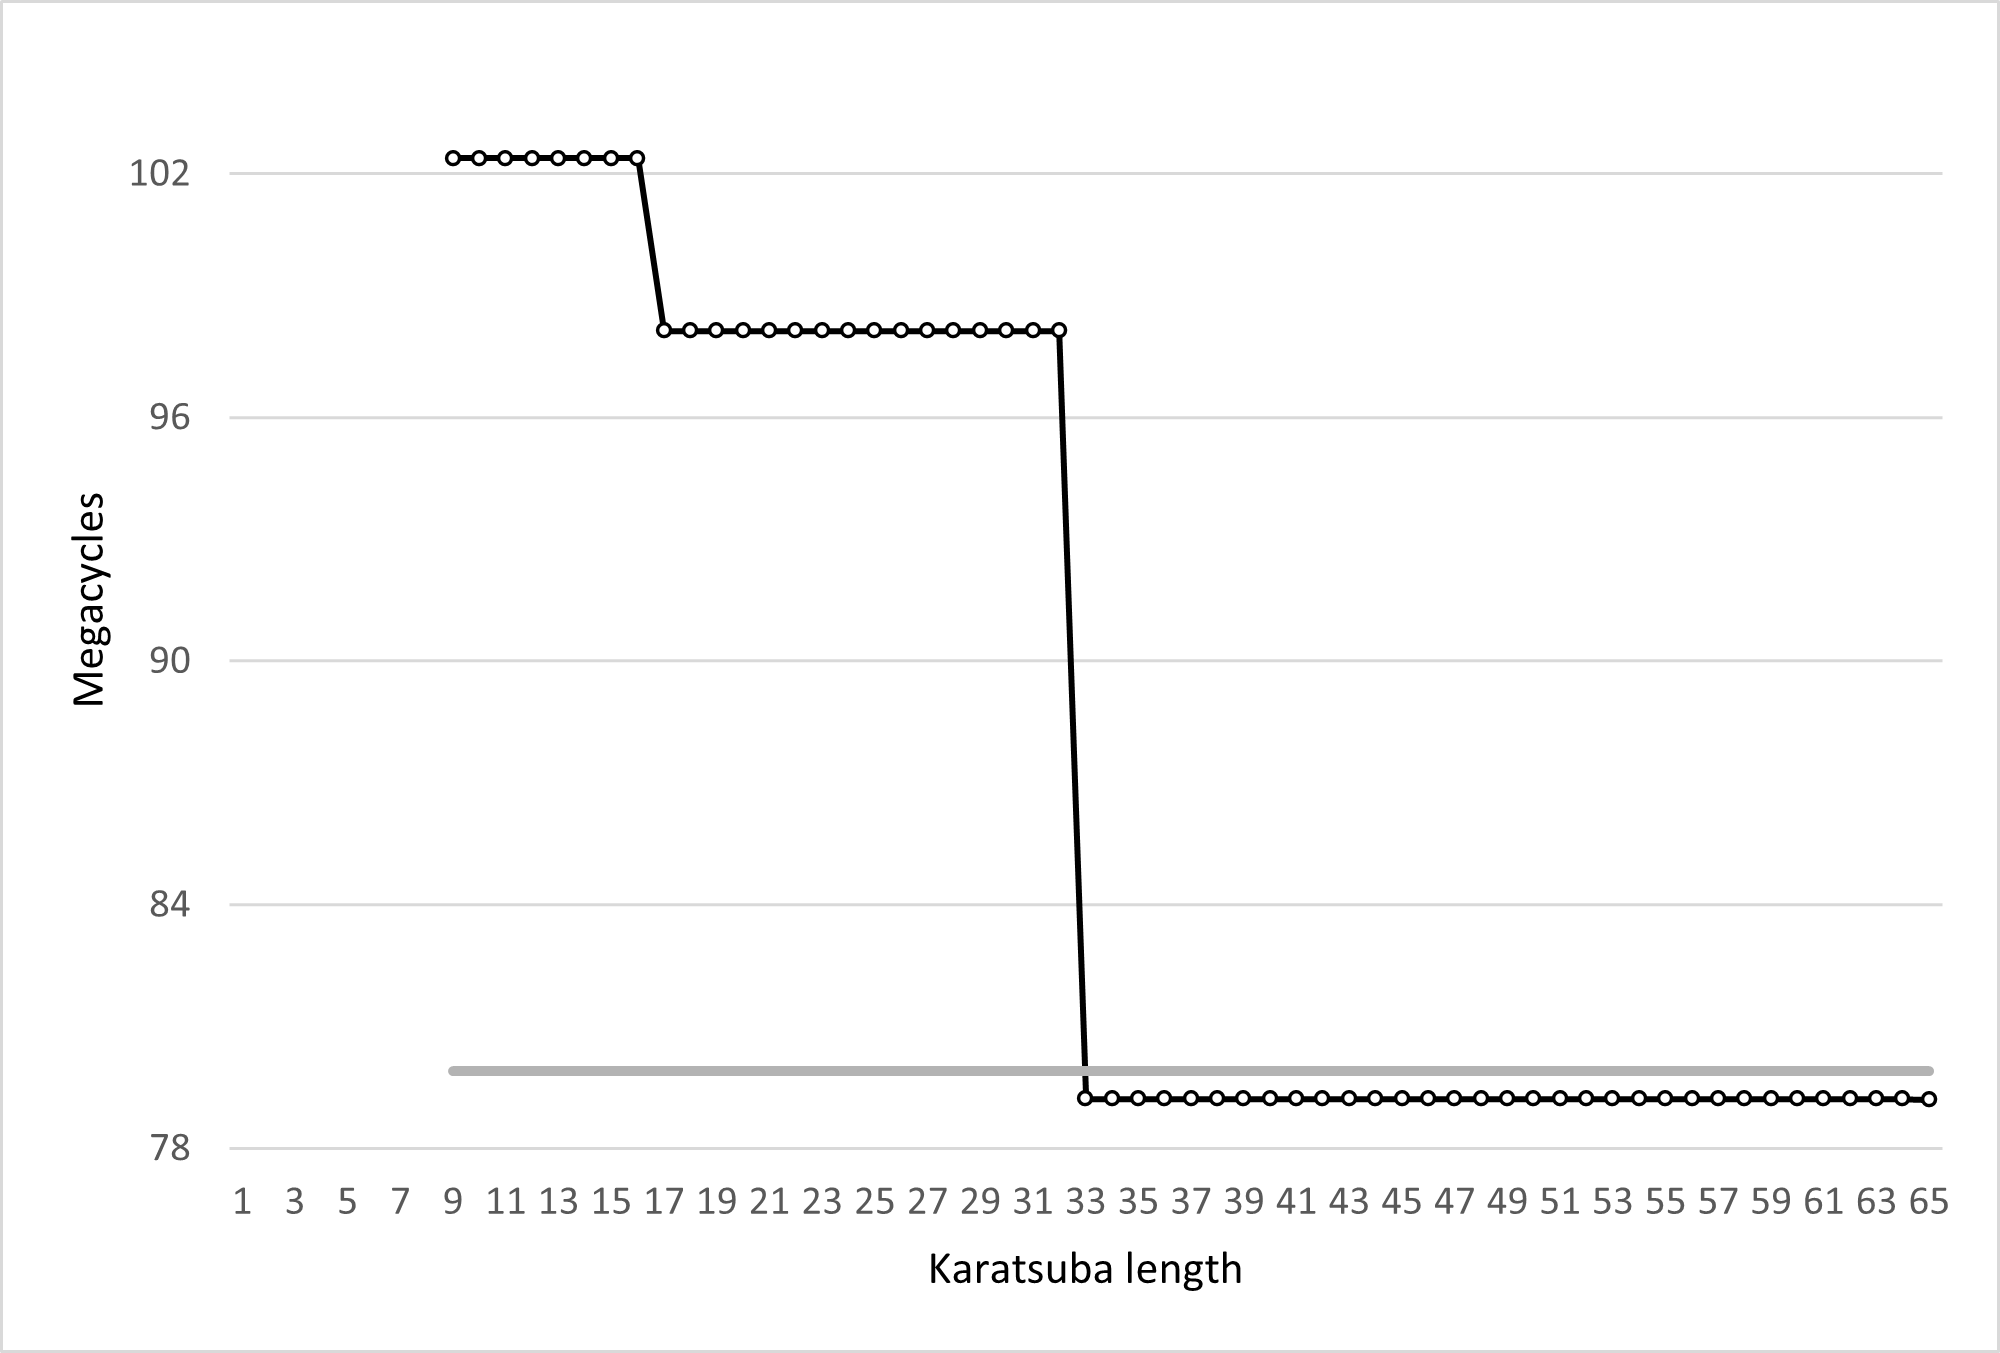
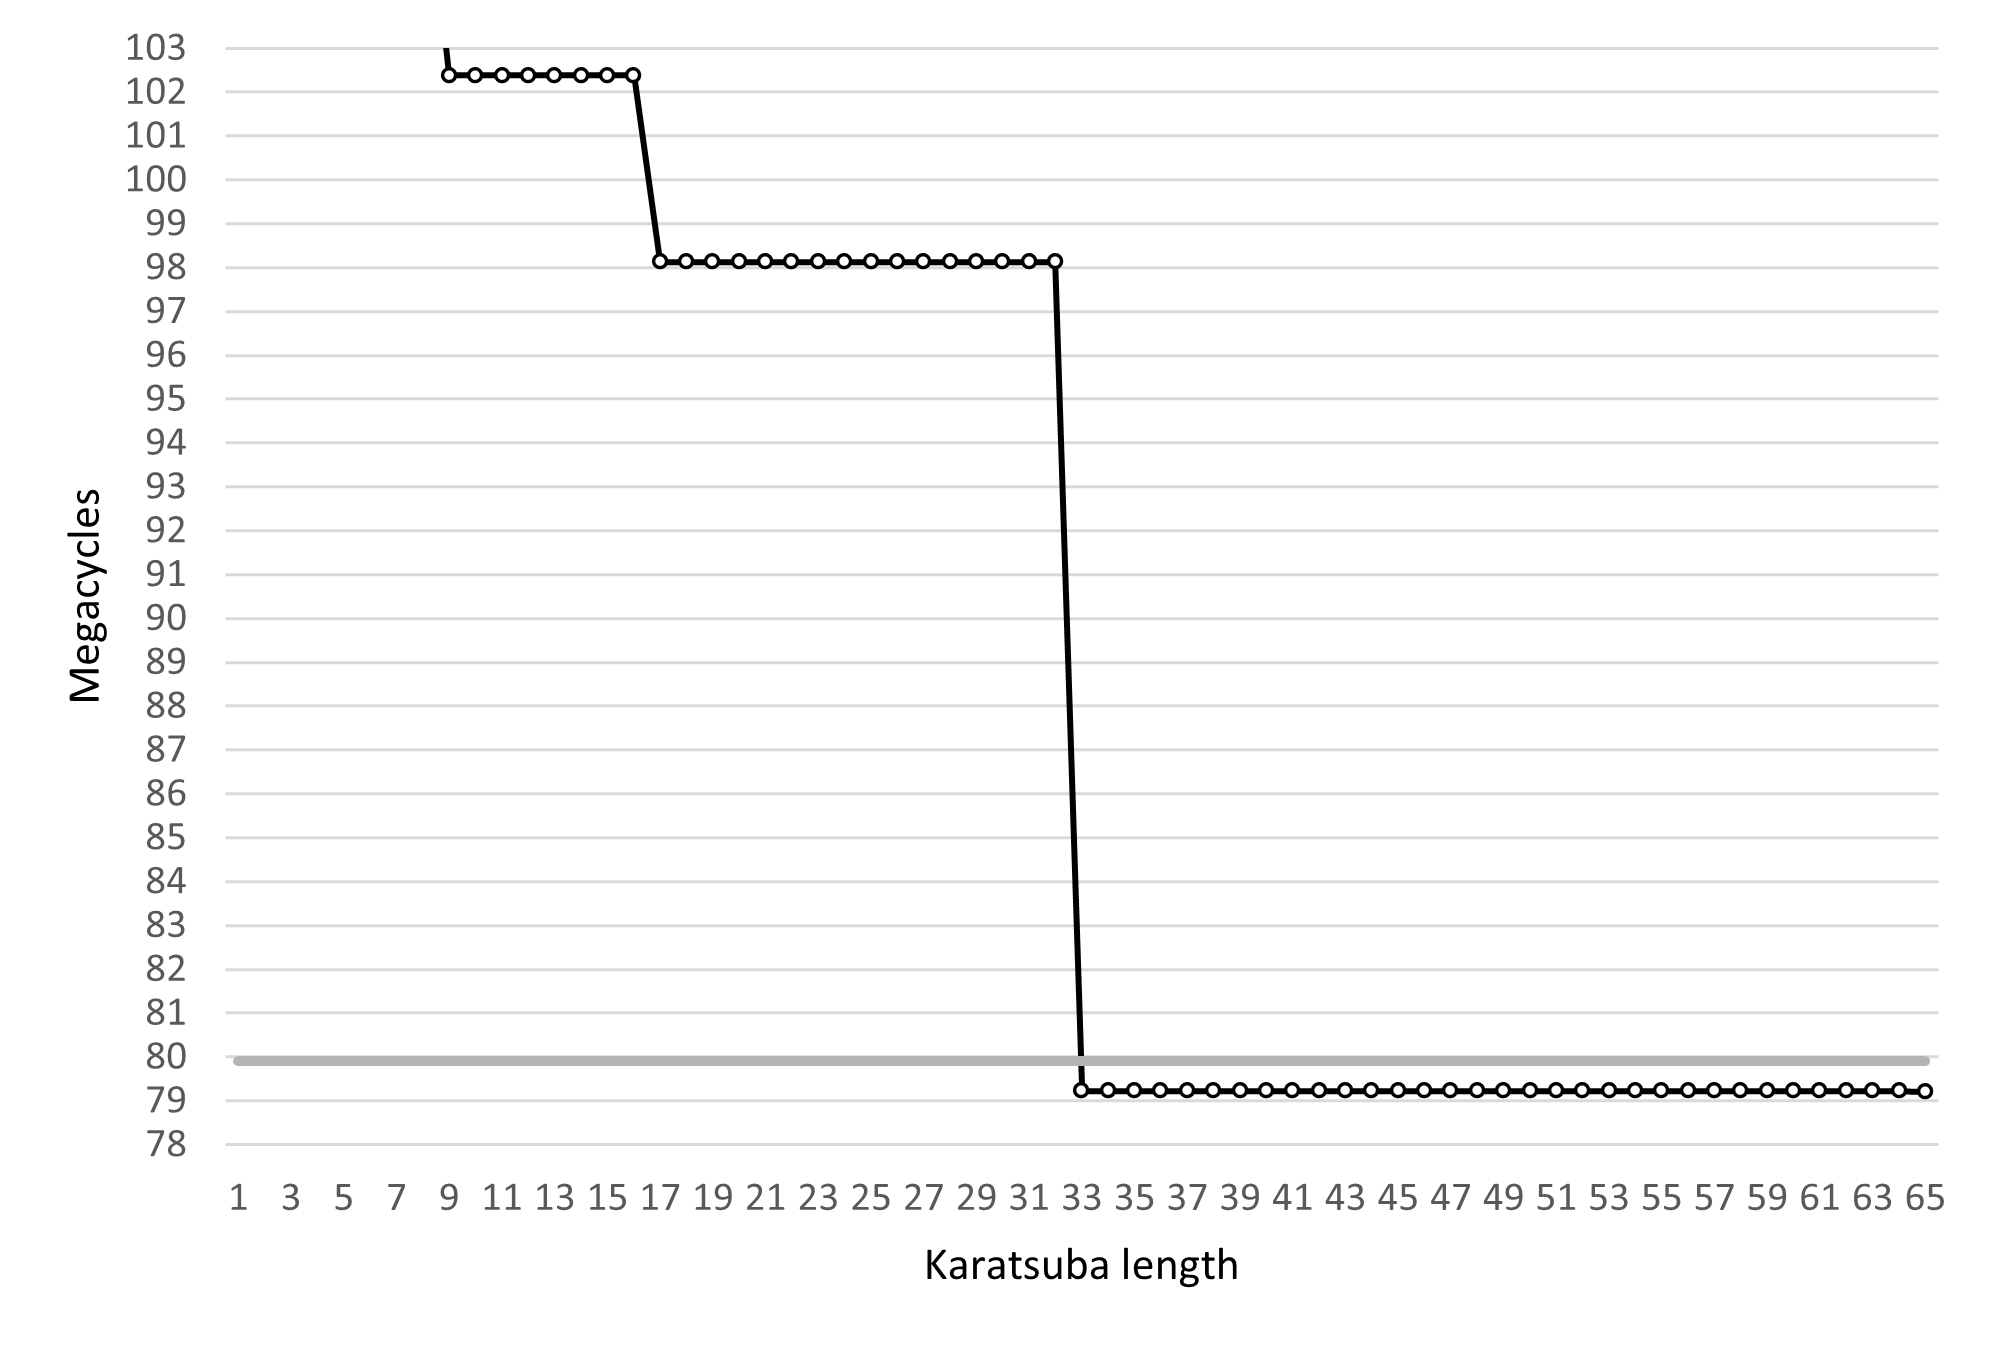
Report update

diff --git a/report/sections/evaluation.tex b/report/sections/evaluation.tex
@@ -8,21 +8,34 @@
 -----
 
 
-An evalutation can me made using the data gotten using the test scripts described in the implementation section. All measurements is measured by counting the cycles it takes to run the code.
+
+An evaluation can me made using the data gotten using the test scripts described in the implementation section. All measurements is measured by counting the cycles it takes to run the code.
 
 \subsection{Testing}
 
 
 
 \subsection{Reference implementation}
-The reference implementation takes $79.898$ megacycles to run.
+The reference implementation uses Montgomery ladder approach for point multiplication, schoolbook multiplication, and branch less fixed time approaches to the arithmetic in general. This makes it easier to measure the cycles as it they wont change depending on its input. The reference implementation takes $79.898$ megacycles to run.
 
+\subsection{Karatsuba}
+The testing method described in \ref{karatTesting} has been used to find the best operand length for the Karatsuba algorithm. The results of the test scripts has been plotted into a chart, and can be seen in figure \ref{karatsubafigure}. Based on those results the best operand length must be $32$, as this results in the least cycles. \\ 
+\begin{figure}[H]
+\begin{subfigure}{\textwidth}
+    \centering
+    \fbox{\includegraphics[width=0.8\textwidth]{report/images/karatsuba.png}}
+    \caption{Karatsuba operand length - cycles}
+\label{karatsubafigure}
+\end{subfigure}
+\end{figure}
+Using this operand length results in $79.222$ megacycles. To compare the Karatsuba cycles with the reference implementation both have been plotted into a chart in figure \ref{karatsubacomparison}. This chart shows the difference between the two implementation is not magnificent, as the difference is $0.676$ megacycles.\\
 
-Karatsuba...
-\includegraphics{images/karatsuba.png}
-
-
-
-Comparison..
-\includegraphics{images/karatsuba-compared.png}
+\begin{figure}[H]
+\begin{subfigure}{\textwidth}
+    \centering
+    \fbox{\includegraphics[width=0.8\textwidth]{report/images/karatsuba-compared.png}}
+    \caption{Karatsuba operand lengths compared to reference implementation}
+\end{subfigure}
+\label{karatsubacomparison}
+\end{figure}
     

diff --git a/report/sections/implementation.tex b/report/sections/implementation.tex
@@ -7,6 +7,9 @@
 
 ~10 pages
 
+-- BUILD FLAGS??
+-- TESTING ARGUMENTS??
+
 This section will describe how the reference implemenation from Bernstein was ported, and how the Karatsuba algorithm is implemented in practice.
 \subsection{Reference implementation}
 The reference implementation was straight forward to port, as the arithmetic itself could be used directly without any changes.

diff --git a/report/sections/optimization.tex b/report/sections/optimization.tex
@@ -1,6 +1,10 @@
 \section{Optimization}
 ~10 pages
 
+
+-- Skriv om HVOR der ellers kunne optimeres??
+
+
 \subsection{Karatsuba}
 The Karatsuba algorithm is used to perform multiplication of large numbers with fewer operations, than the school-book multiplication approach.
 $n^{\log_{2}3} \approx n^{1.58}$

diff --git a/report/report.tex b/report/report.tex
@@ -7,6 +7,7 @@
 \usepackage{amsmath}
 \usepackage{xcolor}
 \usepackage{scrextend}
+\usepackage{float}
 \usepackage{hyperref}
 \usepackage{biblatex}
 \addbibresource{biblography.bib}
